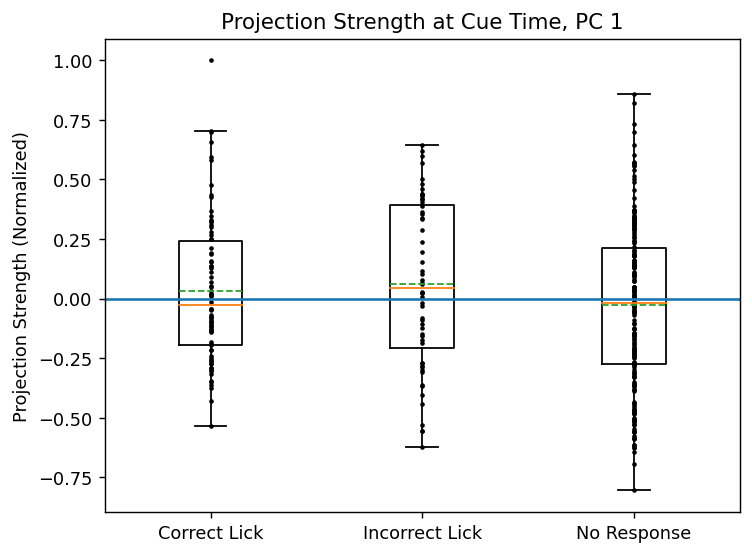
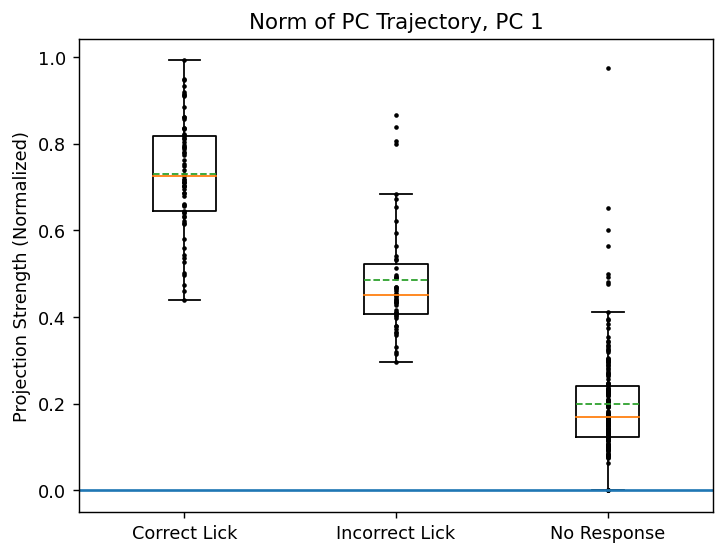
turkey day update

diff --git a/spike_analysis/main.py b/spike_analysis/main.py
@@ -231,6 +231,7 @@ if __name__ == '__main__':
     # trial_mask_left_lick_left_stim += [idx for idx in range(session.get_num_trials())
     #                                 if (stims[idx, 1] == 1) and (dirs[idx] == 'r')]
 
+
     stims_filt = stims[trial_mask_left_lick_left_stim, :]
     cue_times_filt = cue_times[:, trial_mask_left_lick_left_stim]
     t_perts = stims_filt[:, 2] - cue_times_filt[0,:]
@@ -328,7 +329,7 @@ if __name__ == '__main__':
 
     projs_all -= np.mean(projs_all,axis=0)
 
-    proj_cues = np.linalg.norm(projs_all[:idx_end,:], axis=0)
+    proj_cues = np.linalg.norm(projs_all, axis=0)
 
     proj_cues /= np.max(proj_cues,axis=0)
     print('done')
@@ -344,7 +345,7 @@ if __name__ == '__main__':
         plt.scatter([2] * sum(wrong_mask), proj_cues[wrong_mask, i], c='k', marker='.', s=10)
         plt.scatter([3] * sum(no_mask), proj_cues[no_mask, i], c='k', marker='.', s=10)
         plt.axhline(0)
-        plt.title("Norm of PC Trajectory After Cue Time, PC " + str(i))
+        plt.title("Norm of PC Trajectory, PC " + str(i))
         plt.ylabel("Projection Strength (Normalized)")
         plt.xticks([1, 2, 3], labels=['Correct Lick', 'Incorrect Lick', 'No Response'])
         plt.savefig('correctness_pc_{0}.png'.format(i), bbox_inches='tight', dpi=128)
@@ -357,11 +358,11 @@ if __name__ == '__main__':
     plt.scatter([2] * sum(wrong_mask), (proj_cues).mean(axis=1)[wrong_mask], c='k', marker='.', s=10)
     plt.scatter([3] * sum(no_mask), (proj_cues).mean(axis=1)[no_mask], c='k', marker='.', s=10)
     plt.axhline(0)
-    plt.title("Projection Strength at Cue Time, Mean of PC Projections")
+    plt.title("Projection Strength, Mean ")
     plt.ylabel("Projection Strength (Normalized)")
     plt.xticks([1, 2, 3], labels=['Correct Lick', 'Incorrect Lick', 'No Response'])
     plt.savefig('correctness_all_pcs.png',bbox_inches='tight', dpi=128)
-    plt.show()
+
 
     # endregion
 
@@ -372,50 +373,65 @@ if __name__ == '__main__':
 
     projs_all = (A_all @ components[:, 0]).reshape((num_bins, num_trials_left, 1))
 
-    us,vs =  nonnegative_pca(A)
-    vm = vs[-1]
+    A_curr = A.copy()
+    pcs = np.zeros((A.shape[1], num_pcs))
+    for j in range(num_pcs):
+        us,vs =  nonnegative_pca(A_curr)
+        vm = vs[-1]
+        pcs[:, j] = vm
+        A_curr -= np.expand_dims(A_curr @ vm,axis=1) * np.expand_dims(vm,axis=1).T
 
-    projs = (A @ components[:,0]).reshape(num_bins,num_trials)
-    projs_nn = (A @ vm).reshape((num_bins, num_trials, 1))
+    projs = (A @ components).reshape(num_bins,num_trials)
+    projs_nn = (A @ pcs).reshape((num_bins, num_trials, num_pcs))
 
     if stationary and stationary_invert:
         projs = np.cumsum(projs,axis=0)
         projs_nn = np.cumsum(projs_nn,axis=0)
 
-    proj_cues =    np.expand_dims(np.linalg.norm(projs, axis=0),axis=1)
-    proj_cues_nn = np.linalg.norm(projs_nn, axis=0)
 
-    outcomes = session.get_behavior_report()[trial_mask_left_lick_no_stim]
-    right_mask = outcomes == 1
-    wrong_mask = outcomes == 0
-    no_mask = outcomes == -1
+    demean=True
+    if demean:
+        projs -= np.mean(projs, axis=0)
+        projs_nn -= np.mean(projs_nn, axis=0)
 
-    i=0
-    plt.figure('pc ' + str(i) + ' error')
-    plt.clf()
-    plt.boxplot([proj_cues[right_mask, i], proj_cues[wrong_mask, i], proj_cues[no_mask, i]], sym='', meanline=True,
-                showmeans=True)
-    plt.scatter([1] * sum(right_mask), proj_cues[right_mask, i], c='k', marker='.', s=10)
-    plt.scatter([2] * sum(wrong_mask), proj_cues[wrong_mask, i], c='k', marker='.', s=10)
-    plt.scatter([3] * sum(no_mask), proj_cues[no_mask, i], c='k', marker='.', s=10)
-    plt.axhline(0)
-    plt.title("Norm of PC Trajectory After Cue Time, PC " + str(i))
-    plt.ylabel("Projection Strength (Normalized)")
-    plt.xticks([1, 2, 3], labels=['Correct Lick', 'Incorrect Lick', 'No Response'])
 
-    i = 0
-    plt.figure('pc ' + str(i) + ' error nn')
-    plt.clf()
-    plt.boxplot([proj_cues_nn[right_mask, i], proj_cues_nn[wrong_mask, i], proj_cues_nn[no_mask, i]], sym='', meanline=True,
-                showmeans=True)
-    plt.scatter([1] * sum(right_mask), proj_cues_nn[right_mask, i], c='k', marker='.', s=10)
-    plt.scatter([2] * sum(wrong_mask), proj_cues_nn[wrong_mask, i], c='k', marker='.', s=10)
-    plt.scatter([3] * sum(no_mask), proj_cues_nn[no_mask, i], c='k', marker='.', s=10)
-    plt.axhline(0)
-    plt.title("Norm of PC Trajectory After Cue Time, PC " + str(i))
-    plt.ylabel("Projection Strength (Normalized)")
-    plt.xticks([1, 2, 3], labels=['Correct Lick', 'Incorrect Lick', 'No Response'])
+    proj_cues =  np.linalg.norm(projs[:,:,:], axis=0)
+    proj_cues /= np.max(proj_cues, axis=0)
+    proj_cues_nn = np.linalg.norm(projs_nn[:,:,:], axis=0)
+    proj_cues_nn /= np.max(proj_cues_nn, axis=0)
+
+
     # endregion
+    outcomes = session.get_behavior_report()[trial_mask_left_lick_no_stim]
+    for i in range(num_pcs):
+        right_mask = outcomes == 1
+        wrong_mask = outcomes == 0
+        no_mask = outcomes == -1
+
+        # plt.figure('pc ' + str(i) + ' error')
+        # plt.clf()
+        # plt.boxplot([proj_cues[right_mask, i], proj_cues[wrong_mask, i], proj_cues[no_mask, i]], sym='', meanline=True,
+        #             showmeans=True)
+        # plt.scatter([1] * sum(right_mask), proj_cues[right_mask, i], c='k', marker='.', s=10)
+        # plt.scatter([2] * sum(wrong_mask), proj_cues[wrong_mask, i], c='k', marker='.', s=10)
+        # plt.scatter([3] * sum(no_mask), proj_cues[no_mask, i], c='k', marker='.', s=10)
+        # plt.axhline(0)
+        # plt.title("Norm of PC Trajectory, PC " + str(i))
+        # plt.ylabel("Projection Strength (Normalized)")
+        # plt.xticks([1, 2, 3], labels=['Correct Lick', 'Incorrect Lick', 'No Response'])
+
+
+        plt.figure('pc ' + str(i) + ' error nn')
+        plt.clf()
+        plt.boxplot([proj_cues_nn[right_mask, i], proj_cues_nn[wrong_mask, i], proj_cues_nn[no_mask, i]], sym='', meanline=True,
+                    showmeans=True)
+        plt.scatter([1] * sum(right_mask), proj_cues_nn[right_mask, i], c='k', marker='.', s=10)
+        plt.scatter([2] * sum(wrong_mask), proj_cues_nn[wrong_mask, i], c='k', marker='.', s=10)
+        plt.scatter([3] * sum(no_mask), proj_cues_nn[no_mask, i], c='k', marker='.', s=10)
+        plt.axhline(0)
+        plt.title("Norm of PC Trajectory, PC " + str(i))
+        plt.ylabel("Projection Strength (Normalized)")
+        plt.xticks([1, 2, 3], labels=['Correct Lick', 'Incorrect Lick', 'No Response'])
 
 # region old code
 
